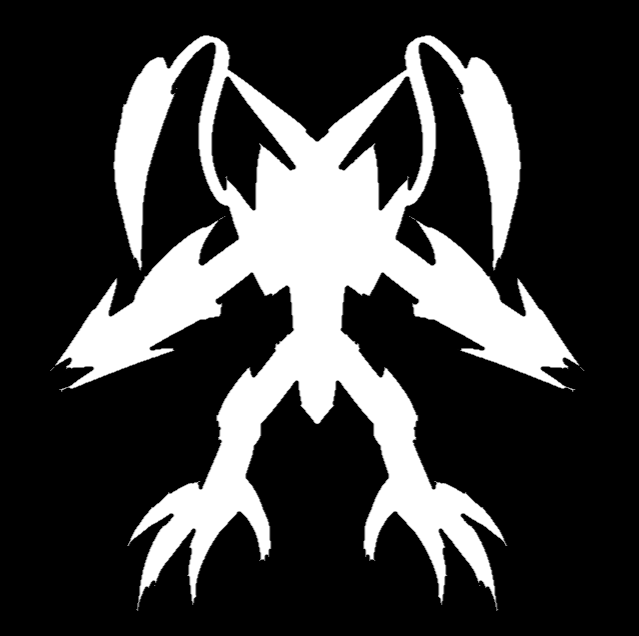
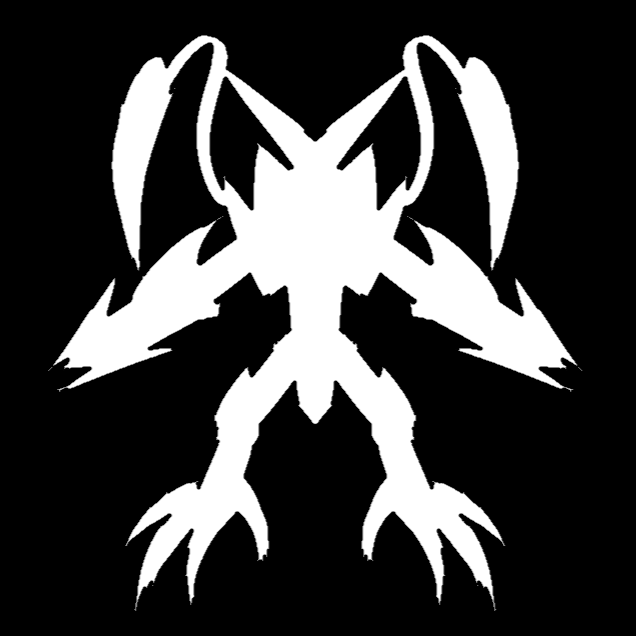
210224 Website Update
- Edited the Logo Image so that it is a square
- Added in the Showcase Display Block
- Adjusted some of the empty block height

diff --git a/index-platform.html b/index-platform.html
@@ -24,7 +24,7 @@
 
                 <td style="width: 60px; height: 60px; padding: 0%;"><img src="images/rEXiV-2.png"> </td>
 
-                <td style="padding-left: 15px; padding-right: 15px;">BRENDAN TAN YUAN XI</td>
+                <td style="padding-left: 15px; padding-right: 15px;">BRENDAN (RAPTOR) TAN YUAN XI</td>
 
                 <td class="active tableBtn"><a href="">HOME</a></td>
 
@@ -78,7 +78,7 @@
     </div>
 
     <!--Text block 01-->
-    <div class="hidden" style="padding: 0% 10% 0% 10%; margin: 0%;">
+    <div class="displayBlock" style="padding: 0% 10% 0% 10%; margin: 0%;">
 
         <table class="" style="max-width: 100%; margin: 0%; padding-left: 10%; padding-right: 10%; background-color: #CFEEF7; border-collapse: collapse; ">
 
@@ -88,13 +88,114 @@
                 <td style="text-align: center; font-size: 24px; padding-left: 10%; padding-right: 10%;"> Welcome to my online portfolio website where I showcase my projects compromising of graphic design and drawings, game and website designs and developed products. </td>
             </tr>
 
-            <tr style="height: 15VH;"></tr>
+            <tr style="height: 10VH;"></tr>
 
             <tr>
                 <td style="text-align: center; font-size: 24px; padding-left: 10%; padding-right: 10%;"> These are some of my personal favorites!</td>
             </tr>
             
             <tr style="height: 5VH;"></tr>
+
+        </table>
+
+    </div class="">
+
+    <!--Showcase Display Block-->
+    <div class="displayBlock ">
+        
+        <table class="displayTable" style="">
+
+            <tr>
+
+                <td class="displayBlank"></td>
+
+                <!--Display Block Group-->
+                <td>
+
+                    <table style="border-collapse: collapse; border: 0cm;">
+
+                        <tr>
+
+                            <td style="width: 26.66%">
+
+                                <a href=""><img src="images/rEXiV-2.png"></a>
+
+                            </td>
+
+                            <td style=" width: 10%;"></td>
+
+                            <td style="width: 26.66%">
+
+                                <a href=""><img src="images/rEXiV-2.png"></a>
+
+                            </td>
+
+                            <td style="width: 10%;"></td>
+
+                            <td style="width: 26.66%;">
+
+                                <a href=""><img src="images/rEXiV-2.png"></a>
+
+                            </td>
+
+                        </tr>
+
+                        <!--Empty Block-->
+                        <tr style="height: 5vh;">
+
+                            <td style=""></td>
+                            <td style=""></td>
+                            <td style=""></td>
+                            <td style=""></td>
+                            <td style=""></td>
+
+                        </tr> 
+
+                        <!--Display Text Block-->
+                        <tr>
+
+                            <td>
+
+                                <a href="">Project Name</a>
+
+                            </td>
+
+                            <td style=""></td>
+
+                            <td>
+
+                                <a href="">Project Name</a>
+
+                            </td>
+
+                            <td style=""></td>
+
+                            <td>
+
+                                <a href="">Project Name</a>
+
+                            </td>
+
+                        </tr>
+
+                        <!--Empty Block-->
+                        <tr style="height: 20vh;">
+
+                            <td style=""></td>
+                            <td style=""></td>
+                            <td style=""></td>
+                            <td style=""></td>
+                            <td style=""></td>
+
+                        </tr> 
+
+                    </table>
+
+                </td>
+
+                <td class="displayBlank"></td>
+
+            </tr>
 
         </table>
 

diff --git a/index-platform.css b/index-platform.css
@@ -139,7 +139,7 @@ body{
     }
 }
 
-@media screen and (min-width: 1021px) {
+@media screen and (max-width: 2180px) {
 
     .navBarBlk {
 
@@ -229,8 +229,75 @@ body{
     .pagebody {
     
         background-color: #CFEEF7;
-    
         
+    }
+
+    .displayBlock {
+
+        padding-left: 10%;
+        padding-right: 10%;
+
+    }
+
+    .displayTable {
+
+        background-color: #CFEEF7;
+
+        border-collapse: collapse;
+        border: 0px;
+
+        padding: 0%;
+        
+        margin: 0%;
+
+        width: 100%;
+        height: 100%;
+    }
+
+    .displayTable tr {
+
+
+        height: 100%;
+        width: 100%;
+
+        padding: 0%;
+        
+
+    }
+    
+    .displayTable td {
+
+        height: 100%;
+        width: 80;
+
+        padding: 0%;
+        margin-left: auto;
+        margin-right: auto;
+
+        align-content: center;
+
+    }
+
+    .displayTable td.displayBlank {
+
+        width: 10%;
+    }
+
+    .displayTable img {
+
+        display: block;
+
+        height: 100%;
+        width: 100%;
+
+    }
+
+    .displayTable a {
+
+        font-size: 24px;
+        color: #1e1e1e;
+        text-decoration: underline;
+        text-decoration-line: 2px;
     }
     
     .footer{
